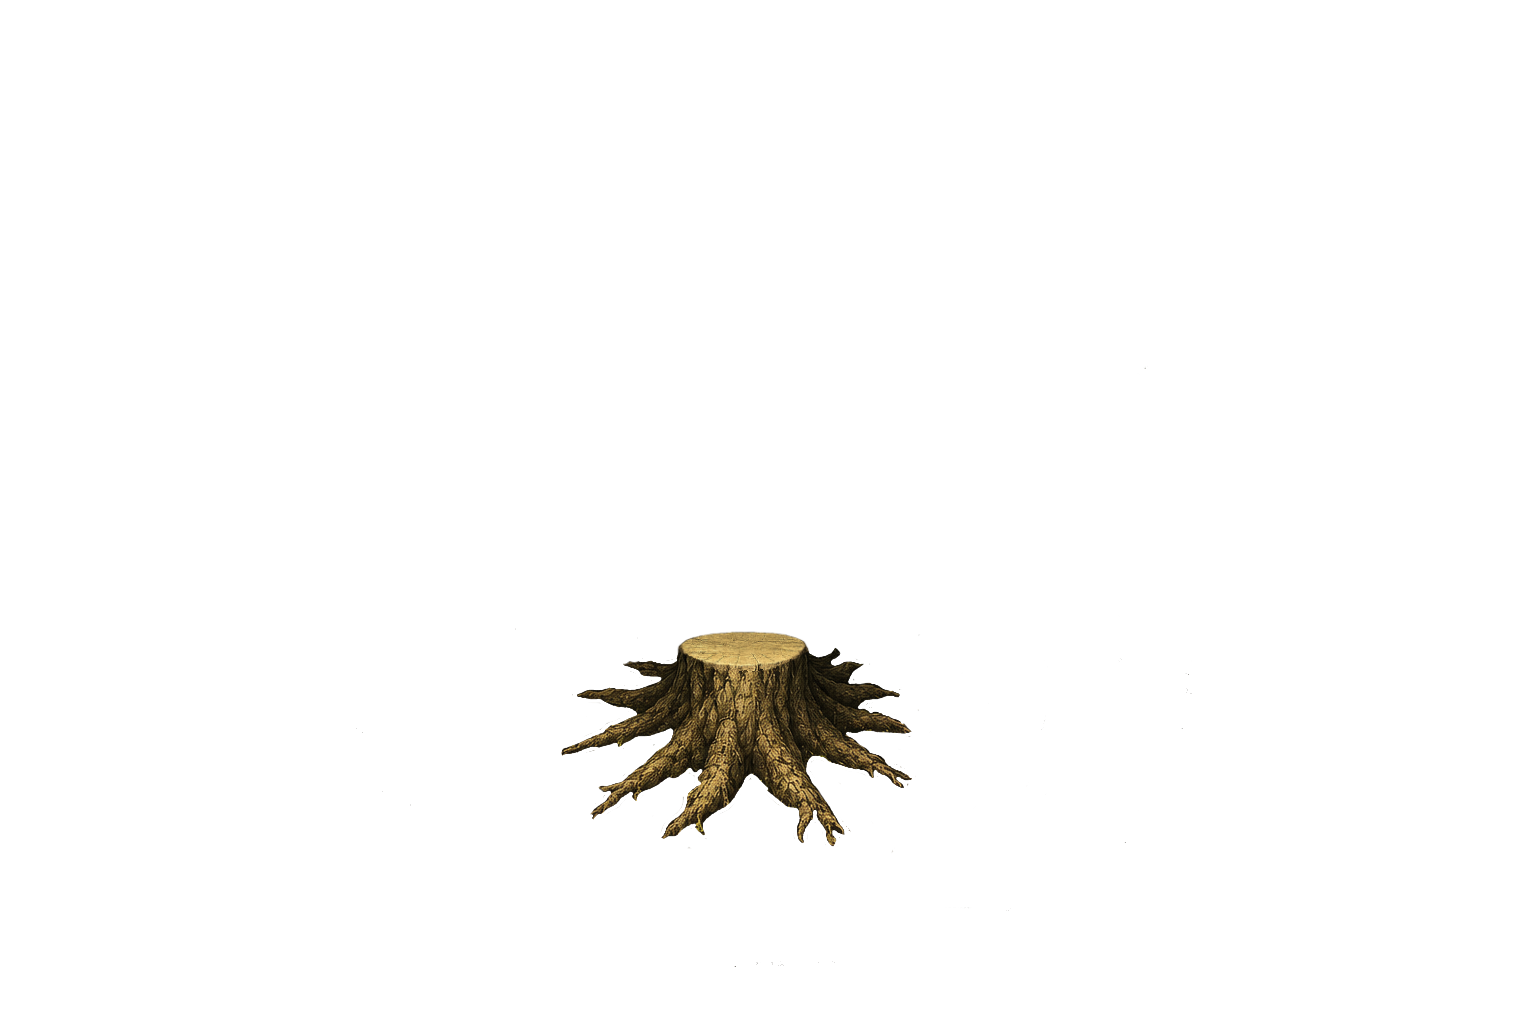
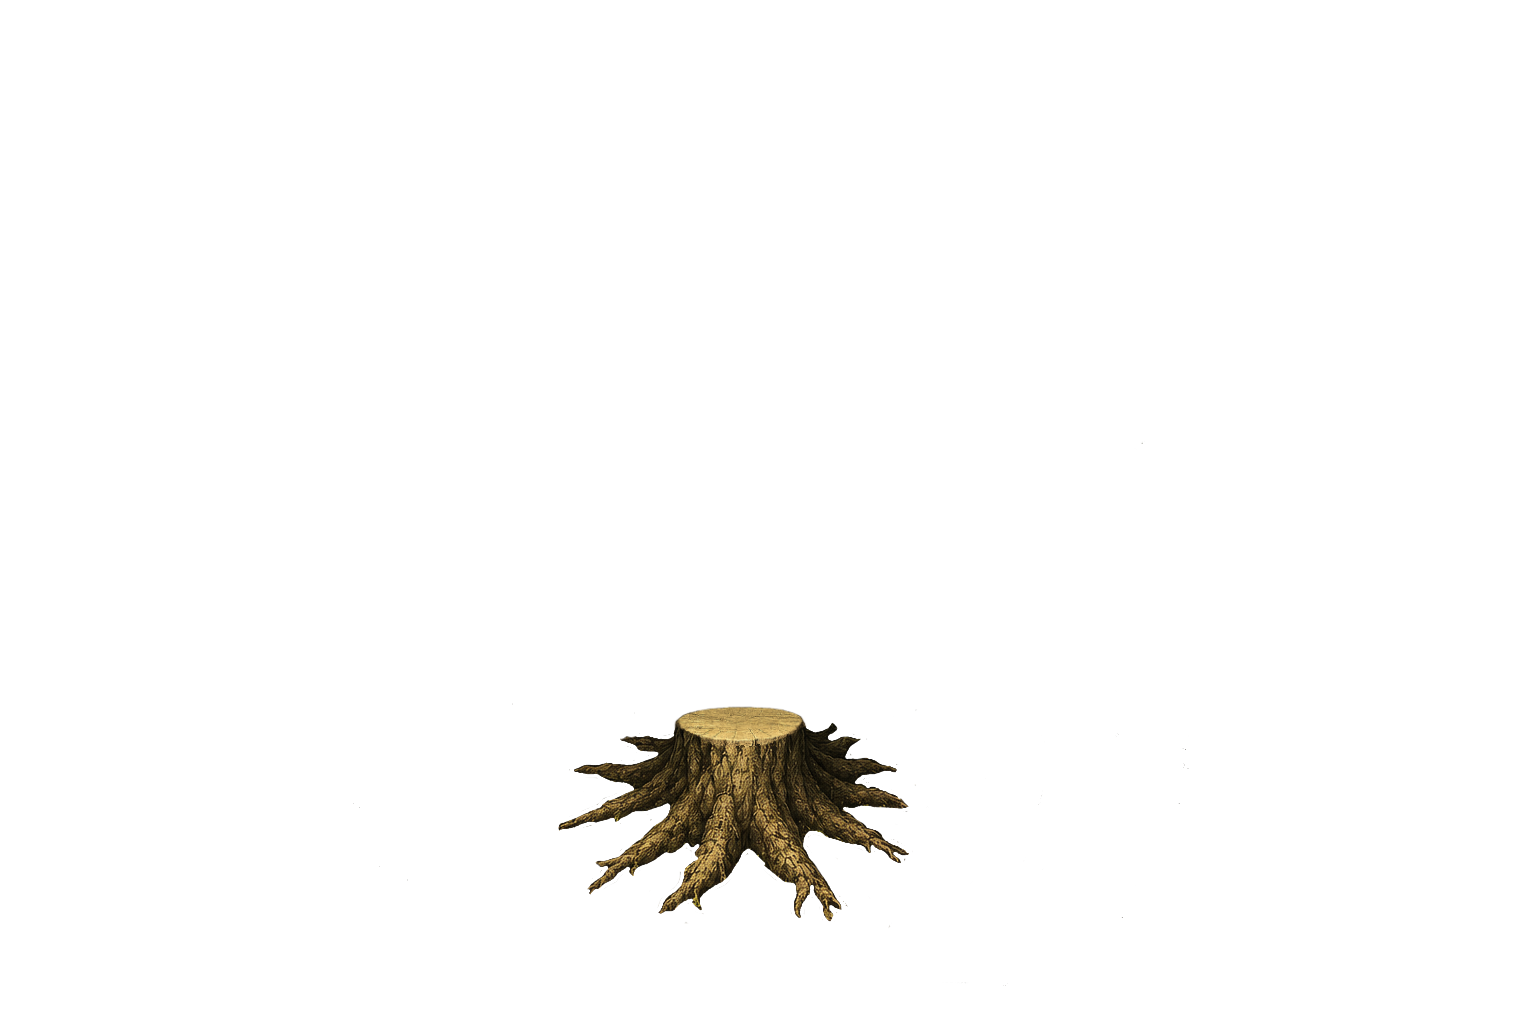
Mandatory cleanup of double assets, gitignore, & caches

Changed region(s): [[0.375, 0.5938, 0.5938, 0.9062]]

diff --git a/game/crates/stonepyre_app/src/boot/game_net/harvest_nodes.rs b/game/crates/stonepyre_app/src/boot/game_net/harvest_nodes.rs
@@ -1,35 +1,210 @@
 use bevy::prelude::*;
+use serde::Deserialize;
+use std::collections::HashMap;
+use std::path::{Path, PathBuf};
 
-use stonepyre_engine::plugins::world::{GridPos, InteractableKind};
+use stonepyre_engine::plugins::world::{
+    player_feet_world, GridPos, InteractableKind, Player,
+};
+use stonepyre_world::tile_to_world_center;
 
+use super::remote_players::RemoteNetPlayer;
 use super::status::GameNetStatus;
 
 const TREE_AVAILABLE_COLOR: Color = Color::srgb(0.2, 0.8, 0.2);
 const TREE_DEPLETED_COLOR: Color = Color::srgb(0.34, 0.31, 0.24);
 
+const DEFAULT_HARVEST_NODE_SPRITE_SCALE: f32 = 0.18;
+const WORLD_OBJECT_DEPTH_BASE: f32 = 50.0;
+const WORLD_OBJECT_DEPTH_STEP: f32 = 0.01;
+const PLAYER_DEPTH_BIAS: f32 = 0.10;
+
+#[derive(Default)]
+pub(crate) struct HarvestNodeVisualCache {
+    handles: HashMap<String, Handle<Image>>,
+    manifests: HashMap<String, Option<HarvestNodeVisualManifest>>,
+}
+
+#[derive(Clone, Debug, Deserialize)]
+pub(crate) struct HarvestNodeVisualManifest {
+    pub visuals: HarvestNodeVisualSlots,
+}
+
+#[derive(Clone, Debug, Deserialize)]
+pub(crate) struct HarvestNodeVisualSlots {
+    pub available: HarvestNodeVisualSlot,
+    pub depleted: HarvestNodeVisualSlot,
+}
+
+#[derive(Clone, Debug, Deserialize)]
+pub(crate) struct HarvestNodeVisualSlot {
+    pub anchor: HarvestNodeVisualAnchor,
+    #[serde(default = "default_visual_scale")]
+    pub scale: f32,
+}
+
+#[derive(Clone, Copy, Debug, Deserialize)]
+pub(crate) struct HarvestNodeVisualAnchor {
+    pub x: f32,
+    pub y: f32,
+}
+
+fn default_visual_scale() -> f32 {
+    1.0
+}
+
 /// Presentation-only bridge for server-owned harvest node state.
 ///
 /// The server remains authoritative for whether a node can be harvested. This
-/// system only mirrors the latest `WorldSnapshot.harvest_nodes` state onto the
-/// local demo-world entities. The depleted tint is a temporary stand-in for the
-/// future stump sprite swap.
+/// system mirrors the latest `WorldSnapshot.harvest_nodes` state onto local
+/// demo-world entities by using the sprite paths sent by the server.
+///
+/// To avoid a visible blank frame on available/depleted swaps, both sprite
+/// handles are requested as soon as a node snapshot is seen, and the current
+/// sprite is kept until the target image is loaded.
 pub fn sync_harvest_node_visuals_from_server(
     status: Res<GameNetStatus>,
-    mut tree_q: Query<(&GridPos, &mut Sprite), With<InteractableKind>>,
+    asset_server: Res<AssetServer>,
+    images: Res<Assets<Image>>,
+    mut cache: Local<HarvestNodeVisualCache>,
+    mut tree_q: Query<(&GridPos, &mut Sprite, &mut Transform), With<InteractableKind>>,
 ) {
     if status.harvest_nodes.is_empty() {
         return;
     }
 
-    for (grid_pos, mut sprite) in &mut tree_q {
+    for (grid_pos, mut sprite, mut transform) in &mut tree_q {
         let Some(node) = status.harvest_nodes.iter().find(|node| node.tile == grid_pos.0) else {
             continue;
         };
 
-        sprite.color = if node.depleted {
-            TREE_DEPLETED_COLOR
+        let available_handle = ensure_sprite_handle(
+            &mut cache,
+            &asset_server,
+            node.available_sprite.as_str(),
+        );
+        let depleted_handle = ensure_sprite_handle(
+            &mut cache,
+            &asset_server,
+            node.depleted_sprite.as_str(),
+        );
+
+        let (target_path, target_handle) = if node.depleted {
+            (node.depleted_sprite.as_str(), depleted_handle)
         } else {
-            TREE_AVAILABLE_COLOR
+            (node.available_sprite.as_str(), available_handle)
         };
+
+        let Some(image) = images.get(&target_handle) else {
+            // Keep the current visual alive while the requested sprite finishes
+            // loading. This prevents a one-frame blank when the node depletes.
+            if sprite.image == Handle::<Image>::default() {
+                sprite.color = if node.depleted {
+                    TREE_DEPLETED_COLOR
+                } else {
+                    TREE_AVAILABLE_COLOR
+                };
+            }
+            continue;
+        };
+
+        let manifest = load_manifest_for_sprite_path(&mut cache, target_path);
+        let slot = manifest
+            .as_ref()
+            .map(|m| if node.depleted { &m.visuals.depleted } else { &m.visuals.available });
+
+        sprite.image = target_handle;
+        sprite.color = Color::WHITE;
+        sprite.custom_size = None;
+
+        let tile_world = tile_to_world_center(node.tile);
+        let image_size = Vec2::new(
+            image.texture_descriptor.size.width as f32,
+            image.texture_descriptor.size.height as f32,
+        );
+
+        let scale = slot
+            .map(|s| s.scale * DEFAULT_HARVEST_NODE_SPRITE_SCALE)
+            .unwrap_or(DEFAULT_HARVEST_NODE_SPRITE_SCALE);
+
+        let anchor = slot
+            .map(|s| s.anchor)
+            .unwrap_or(HarvestNodeVisualAnchor { x: 0.5, y: 0.88 });
+
+        transform.scale = Vec3::splat(scale);
+        transform.translation.x = tile_world.x + (0.5 - anchor.x) * image_size.x * scale;
+        transform.translation.y = tile_world.y + (anchor.y - 0.5) * image_size.y * scale;
+        transform.translation.z = depth_for_world_y(tile_world.y);
     }
+}
+
+/// First-pass world layering.
+///
+/// South/lower entities should draw in front of north/higher entities. Players
+/// use their feet position as the sorting anchor so large sprites can overlap
+/// naturally as they walk in front of or behind trees.
+pub fn update_world_object_depths(
+    mut players: ParamSet<(
+        Query<&mut Transform, With<Player>>,
+        Query<&mut Transform, With<RemoteNetPlayer>>,
+    )>,
+) {
+    for mut transform in &mut players.p0() {
+        let feet_y = player_feet_world(&transform).y;
+        transform.translation.z = depth_for_world_y(feet_y) + PLAYER_DEPTH_BIAS;
+    }
+
+    for mut transform in &mut players.p1() {
+        let feet_y = player_feet_world(&transform).y;
+        transform.translation.z = depth_for_world_y(feet_y) + PLAYER_DEPTH_BIAS;
+    }
+}
+
+fn ensure_sprite_handle(
+    cache: &mut HarvestNodeVisualCache,
+    asset_server: &AssetServer,
+    path: &str,
+) -> Handle<Image> {
+    if let Some(handle) = cache.handles.get(path) {
+        return handle.clone();
+    }
+
+    let handle: Handle<Image> = asset_server.load(path.to_string());
+    cache.handles.insert(path.to_string(), handle.clone());
+    handle
+}
+
+fn load_manifest_for_sprite_path(
+    cache: &mut HarvestNodeVisualCache,
+    sprite_path: &str,
+) -> Option<HarvestNodeVisualManifest> {
+    let manifest_path = manifest_path_for_sprite_path(sprite_path)?;
+    let key = manifest_path.to_string_lossy().to_string();
+
+    if let Some(cached) = cache.manifests.get(&key) {
+        return cached.clone();
+    }
+
+    let loaded = std::fs::read_to_string(&manifest_path)
+        .ok()
+        .and_then(|raw| serde_json::from_str::<HarvestNodeVisualManifest>(&raw).ok());
+
+    cache.manifests.insert(key, loaded.clone());
+    loaded
+}
+
+fn manifest_path_for_sprite_path(sprite_path: &str) -> Option<PathBuf> {
+    let rel = Path::new(sprite_path);
+    let parent = rel.parent()?;
+    Some(asset_root().join(parent).join("manifest.json"))
+}
+
+fn asset_root() -> PathBuf {
+    std::env::var("STONEPYRE_ASSET_ROOT")
+        .map(PathBuf::from)
+        .unwrap_or_else(|_| PathBuf::from(env!("CARGO_MANIFEST_DIR")).join("../../assets"))
+}
+
+fn depth_for_world_y(world_y: f32) -> f32 {
+    WORLD_OBJECT_DEPTH_BASE - world_y * WORLD_OBJECT_DEPTH_STEP
 }

diff --git a/game/crates/stonepyre_server/src/game/sim/harvest.rs b/game/crates/stonepyre_server/src/game/sim/harvest.rs
@@ -23,8 +23,10 @@ const NORMAL_TREE_SUCCESS_CHANCE: f32 = 0.62;
 const NORMAL_TREE_CHARGES: u32 = 4;
 const NORMAL_TREE_RESPAWN_SECS: u32 = 20;
 const NORMAL_TREE_LOOT_TABLE_ID: &str = "woodcutting_oak_tree";
-const NORMAL_TREE_AVAILABLE_SPRITE: &str = "world/harvest/oak_tree.png";
-const NORMAL_TREE_DEPLETED_SPRITE: &str = "world/harvest/oak_tree_stump.png";
+const NORMAL_TREE_AVAILABLE_SPRITE: &str =
+    "world/skills/woodcutting/harvest_nodes/oak_tree/available.png";
+const NORMAL_TREE_DEPLETED_SPRITE: &str =
+    "world/skills/woodcutting/harvest_nodes/oak_tree/depleted.png";
 
 const NORMAL_TREE_LOOT_ITEM_ID: &str = "log";
 const NORMAL_TREE_LOOT_MIN: u32 = 1;

diff --git a/game/crates/stonepyre_app/src/boot/game_net.rs b/game/crates/stonepyre_app/src/boot/game_net.rs
@@ -11,7 +11,10 @@ mod target_marker;
 mod xp_feedback;
 
 pub use action_visuals::play_server_authoritative_action_visuals;
-pub use harvest_nodes::sync_harvest_node_visuals_from_server;
+pub use harvest_nodes::{
+    sync_harvest_node_visuals_from_server,
+    update_world_object_depths,
+};
 pub use inventory_sync::sync_inventory_from_server;
 pub use overlay::{
     despawn_game_net_overlay,

diff --git a/game/crates/stonepyre_app/src/main.rs b/game/crates/stonepyre_app/src/main.rs
@@ -68,6 +68,10 @@ fn main() {
                     .after(boot::game_net::pump_game_net_results),
                 boot::game_net::sync_remote_players_from_snapshots,
                 boot::game_net::animate_remote_players_from_snapshots,
+                boot::game_net::update_world_object_depths
+                    .after(stonepyre_engine::plugins::movement::follow_path_to_next_tile)
+                    .after(boot::game_net::animate_remote_players_from_snapshots)
+                    .after(boot::game_net::sync_harvest_node_visuals_from_server),
                 boot::game_net::update_game_net_overlay,
             )
                 .run_if(in_state(Screen::InWorld)),